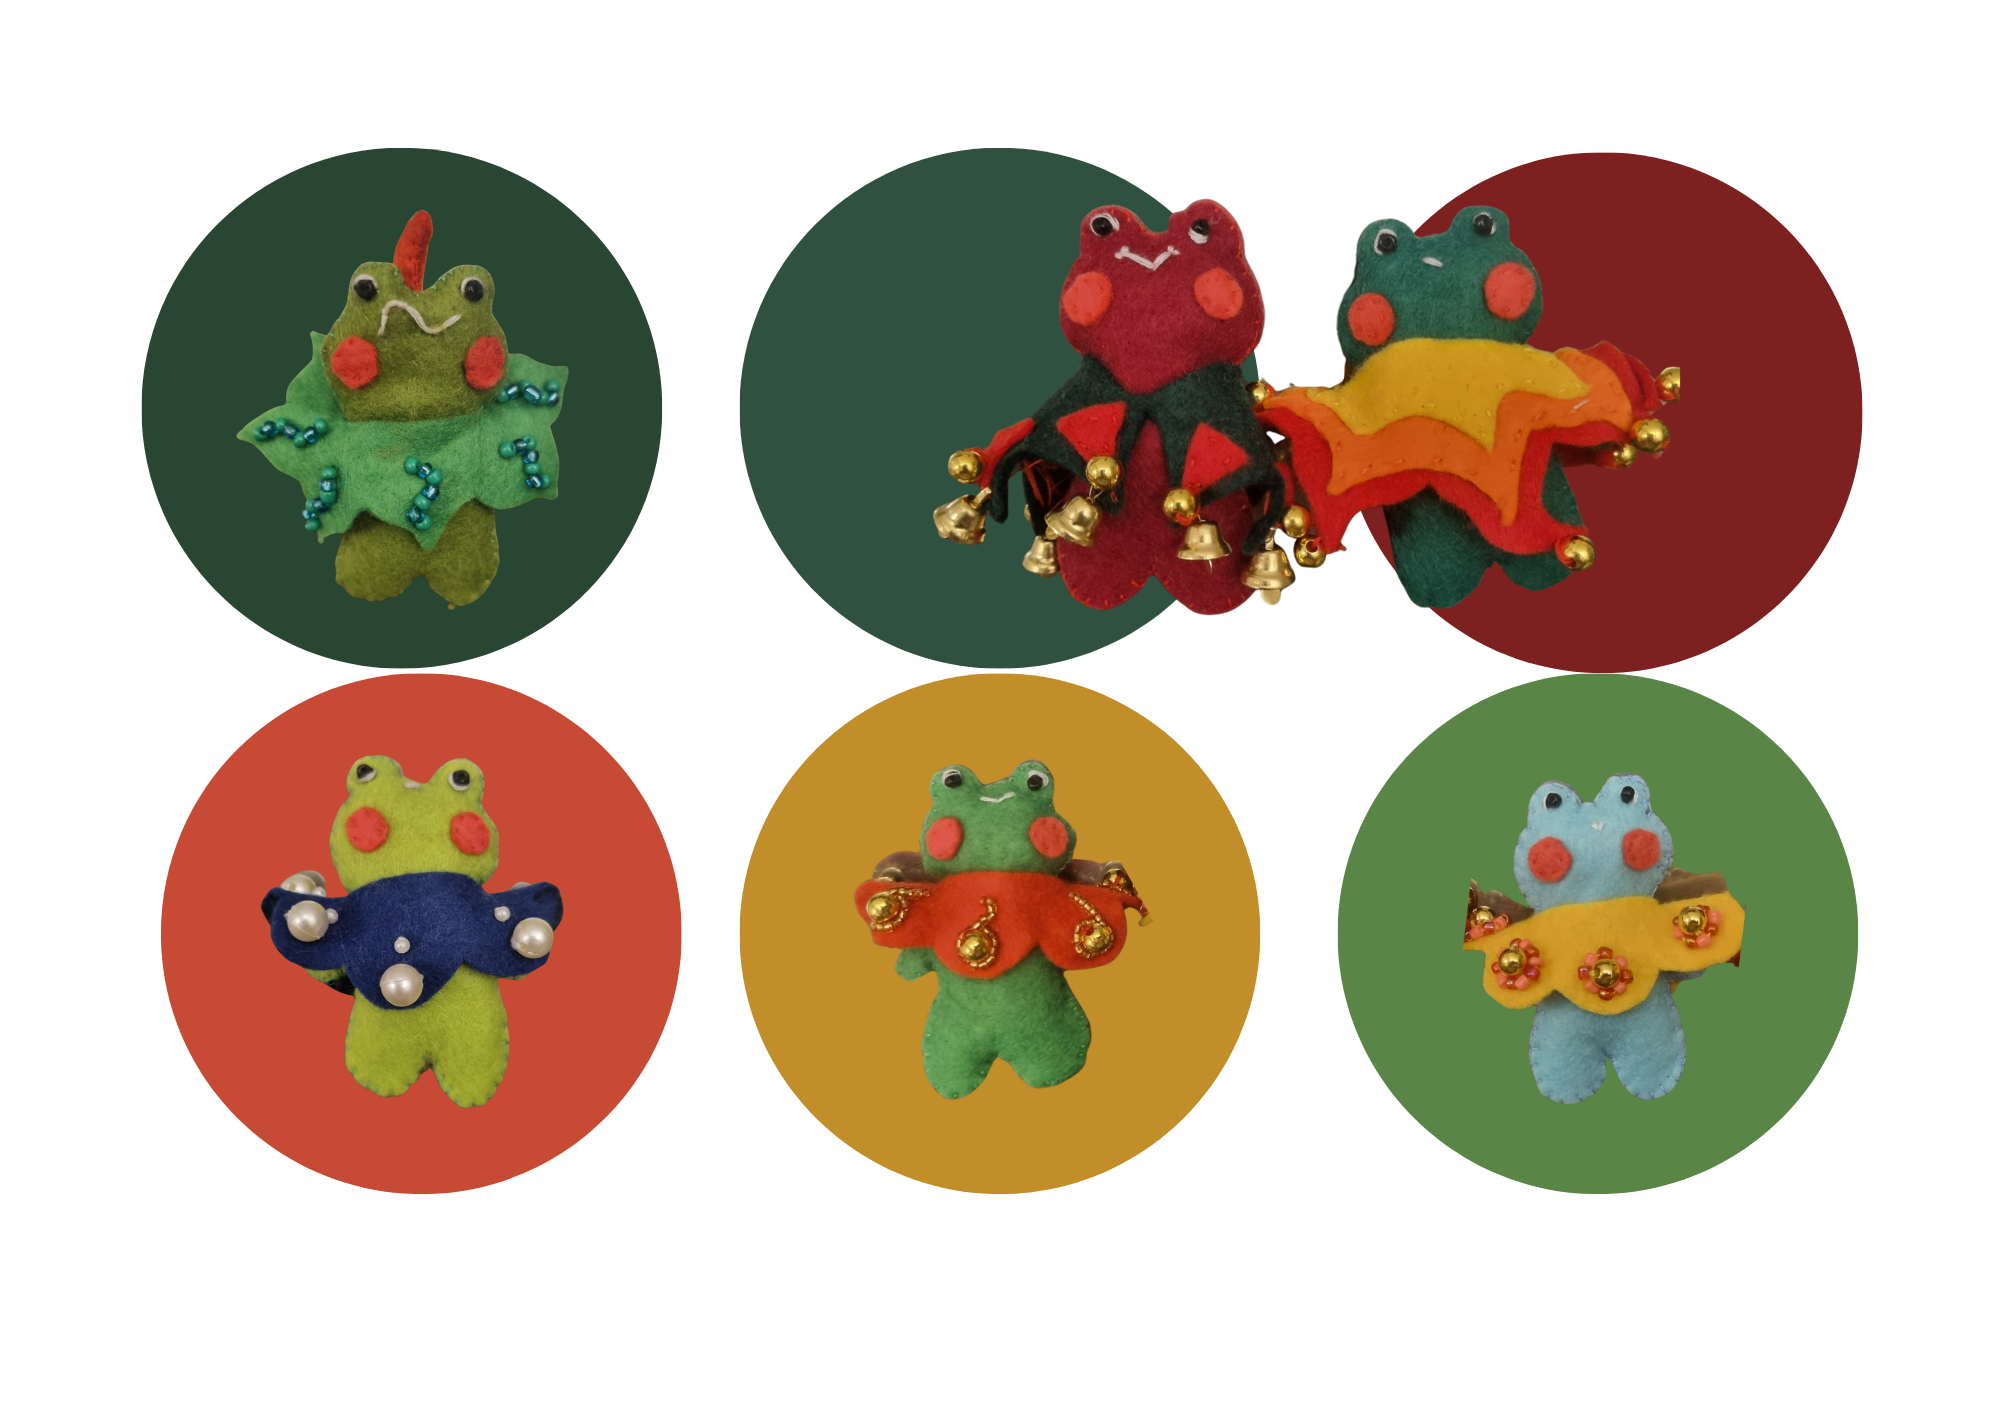
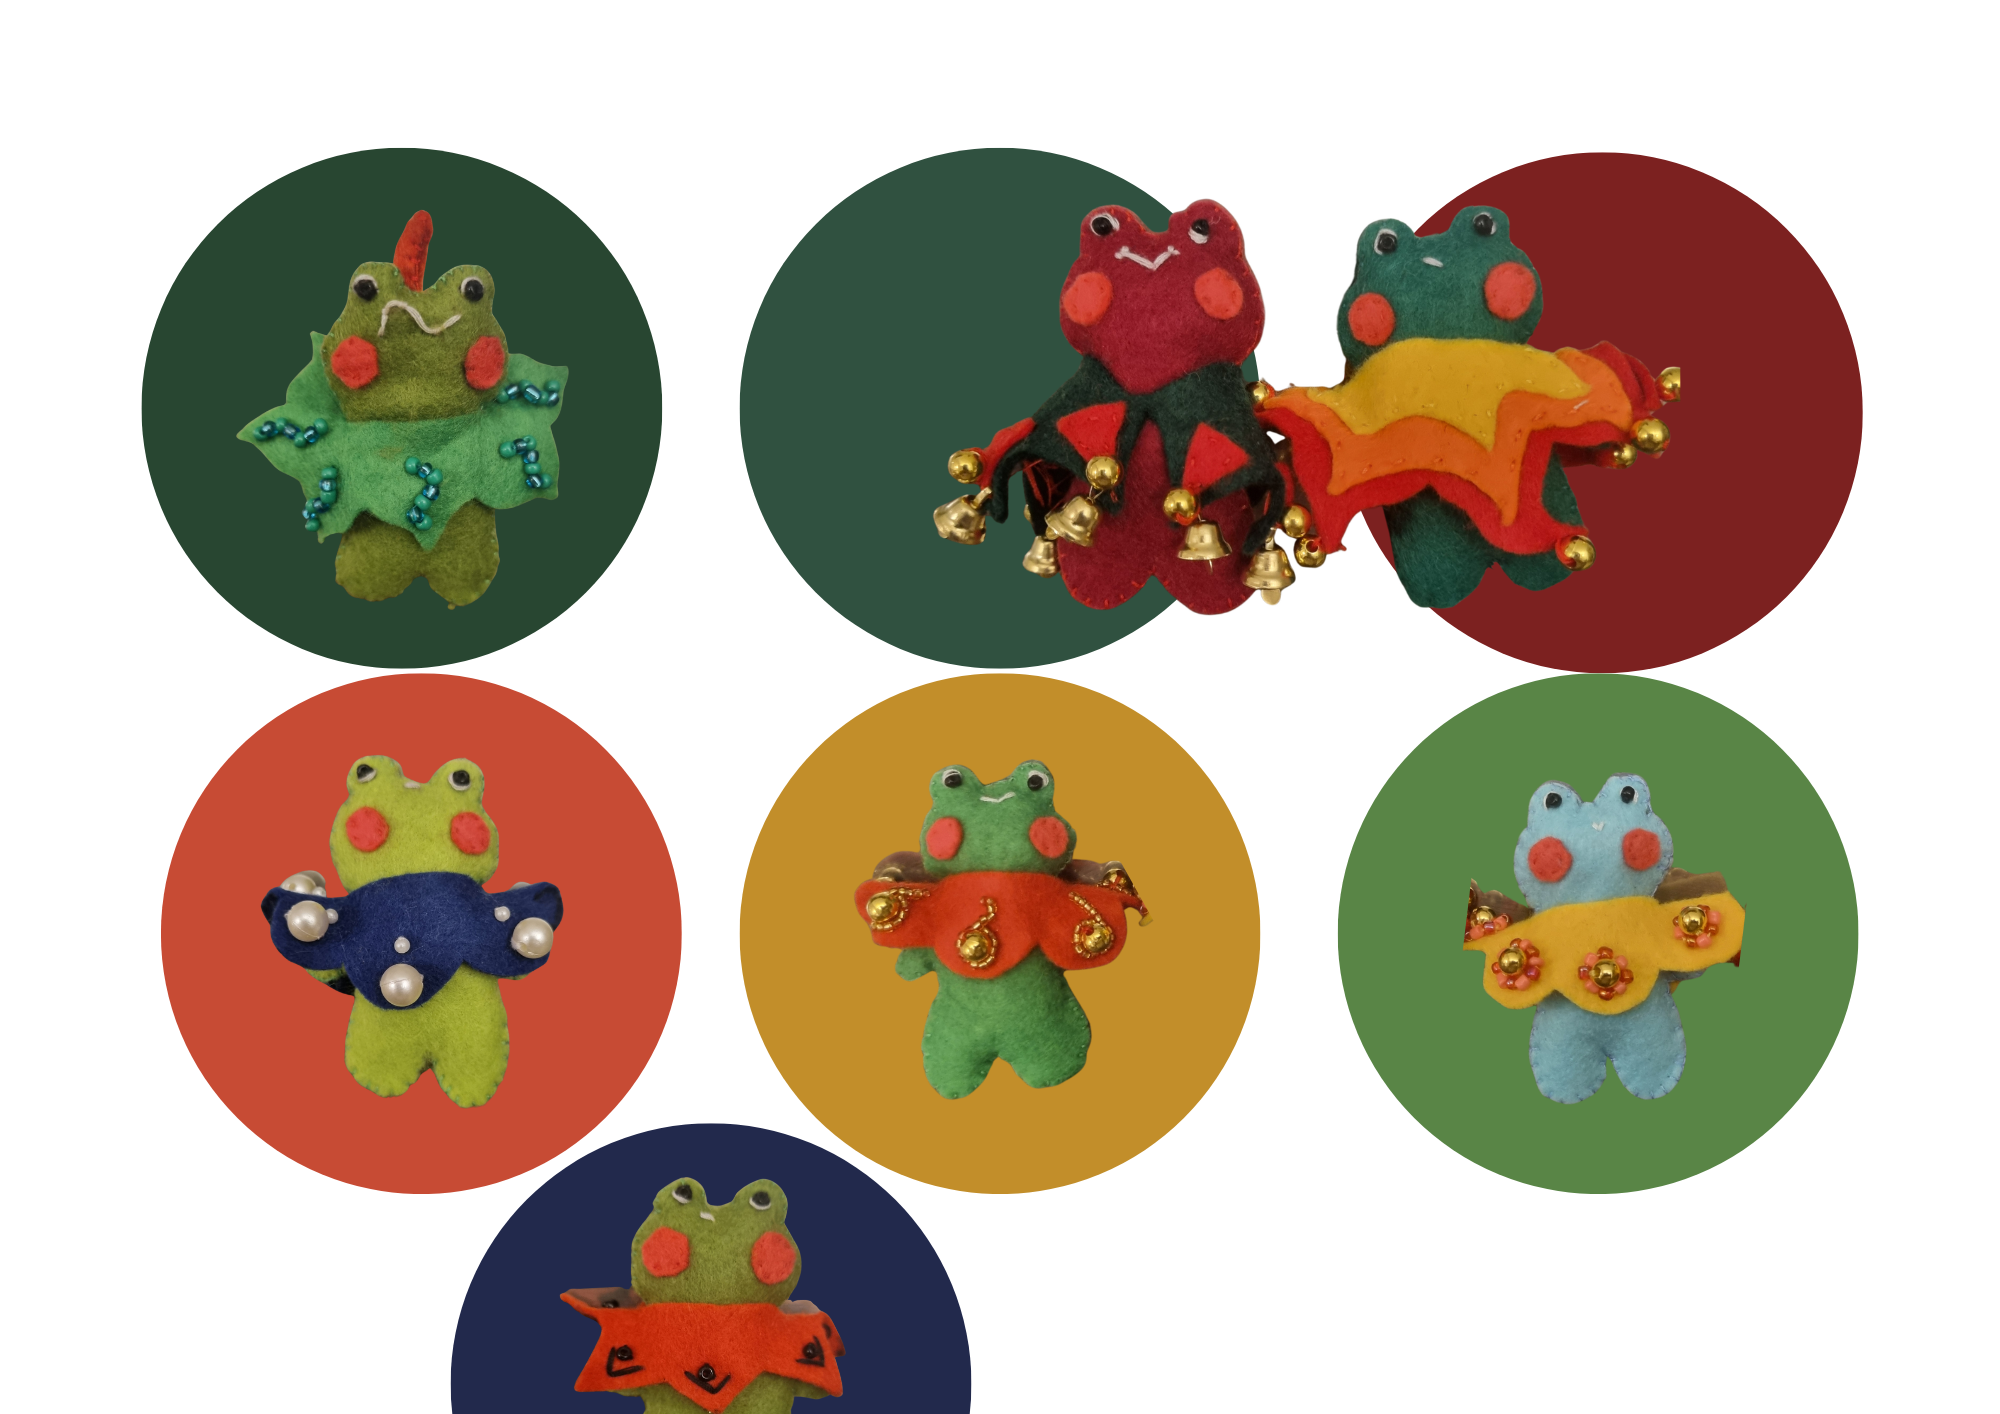
Fix detail-page Back to return to Featured and original scroll spot
Track the home (Featured) page as a back origin alongside gallery
sections, and normalise the root hash ('' vs '#/') so scroll position
is restored when returning to Featured.

Also add purple-sky landscape and update frogs artwork; rebuild docs.

Changed region(s): [[0.217, 0.7779, 0.496, 1.0]]

diff --git a/kehel-mala/src/App.tsx b/kehel-mala/src/App.tsx
@@ -820,18 +820,26 @@ function App() {
   // Remember each route's scroll position so returning from a detail page lands
   // back where you left off, while brand-new routes still start at the top.
   const scrollPositions = useRef<Record<string, number>>({});
-  const currentHash = useRef<string>(window.location.hash);
-  // The last gallery section the visitor browsed, so a work's "Back" link returns
-  // to that section (e.g. Zines) rather than always to "All".
-  const lastGalleryCat = useRef<Product | 'all'>(
-    route.kind === 'gallery' ? route.product : 'all',
-  );
+  // Normalise so the bare site root ('') and the home link ('#/') share one
+  // scroll-position key, otherwise returning to Featured resets to the top.
+  const normHash = (h: string) => (h === '' || h === '#' ? '#/' : h);
+  const currentHash = useRef<string>(normHash(window.location.hash));
+  // The last "browse" view the visitor was on — the featured home page or a
+  // gallery section — so a work's "Back" link returns there (e.g. Featured, or
+  // Zines) rather than always to "All".
+  const originFor = (r: Route): { href: string; label: string } =>
+    r.kind === 'home'
+      ? { href: '#/', label: 'featured' }
+      : r.kind === 'gallery'
+        ? { href: galleryHref(r.product), label: galleryLabel(r.product) }
+        : { href: '#/gallery', label: 'gallery' };
+  const lastBrowse = useRef<{ href: string; label: string }>(originFor(route));
 
   useEffect(() => {
     const onHashChange = () => {
       // Stash the scroll position of the page we're leaving before switching.
       scrollPositions.current[currentHash.current] = window.scrollY;
-      currentHash.current = window.location.hash;
+      currentHash.current = normHash(window.location.hash);
       setRoute(routeFromHash());
     };
     window.addEventListener('hashchange', onHashChange);
@@ -846,8 +854,10 @@ function App() {
     return () => cancelAnimationFrame(raf);
   }, [route]);
 
-  // Track the section the visitor is browsing while they're on a gallery view.
-  if (route.kind === 'gallery') lastGalleryCat.current = route.product;
+  // Track the view the visitor is browsing (featured home or a gallery section)
+  // so the detail page's "Back" link can return there.
+  if (route.kind === 'home' || route.kind === 'gallery')
+    lastBrowse.current = originFor(route);
 
   // The gallery and any artwork detail page keep the Gallery nav item active;
   // the home (featured) page highlights nothing.
@@ -864,8 +874,8 @@ function App() {
           <WorkPage
             key={route.id}
             id={route.id}
-            backHref={galleryHref(lastGalleryCat.current)}
-            backLabel={galleryLabel(lastGalleryCat.current)}
+            backHref={lastBrowse.current.href}
+            backLabel={lastBrowse.current.label}
           />
         )}
         {route.kind === 'gallery' && <GalleryPage product={route.product} />}

diff --git a/docs/index.html b/docs/index.html
@@ -1,3 +1,3 @@
 <!doctype html><html lang="en"><head><meta charset="utf-8"/><link rel="icon" href="/favicon.ico" sizes="any"/><link rel="icon" type="image/png" sizes="32x32" href="/favicon-32.png"/><link rel="icon" type="image/png" sizes="16x16" href="/favicon-16.png"/><meta name="viewport" content="width=device-width,initial-scale=1"/><meta name="robots" content="noindex, nofollow, noarchive, noimageindex"/><meta name="theme-color" content="#e6ad3f"/><meta name="description" content="kehel mala : : Aybowan, friends! Check out the various creative pursuits of the Sri Lankan sibling duo Milindi and Chaamudi,
         living in Melbourne trying to do
-        anything but the shit they are supposed to do 💅🏾"/><link rel="apple-touch-icon" sizes="180x180" href="/apple-touch-icon.png"/><link rel="manifest" href="/manifest.json"/><title>kehel mala</title><script defer="defer" src="/static/js/main.9d095d79.js"></script><link href="/static/css/main.83a8399d.css" rel="stylesheet"></head><body><noscript>You need to enable JavaScript to run this app.</noscript><div id="root"></div></body></html>
+        anything but the shit they are supposed to do 💅🏾"/><link rel="apple-touch-icon" sizes="180x180" href="/apple-touch-icon.png"/><link rel="manifest" href="/manifest.json"/><title>kehel mala</title><script defer="defer" src="/static/js/main.3c9d9c08.js"></script><link href="/static/css/main.83a8399d.css" rel="stylesheet"></head><body><noscript>You need to enable JavaScript to run this app.</noscript><div id="root"></div></body></html>